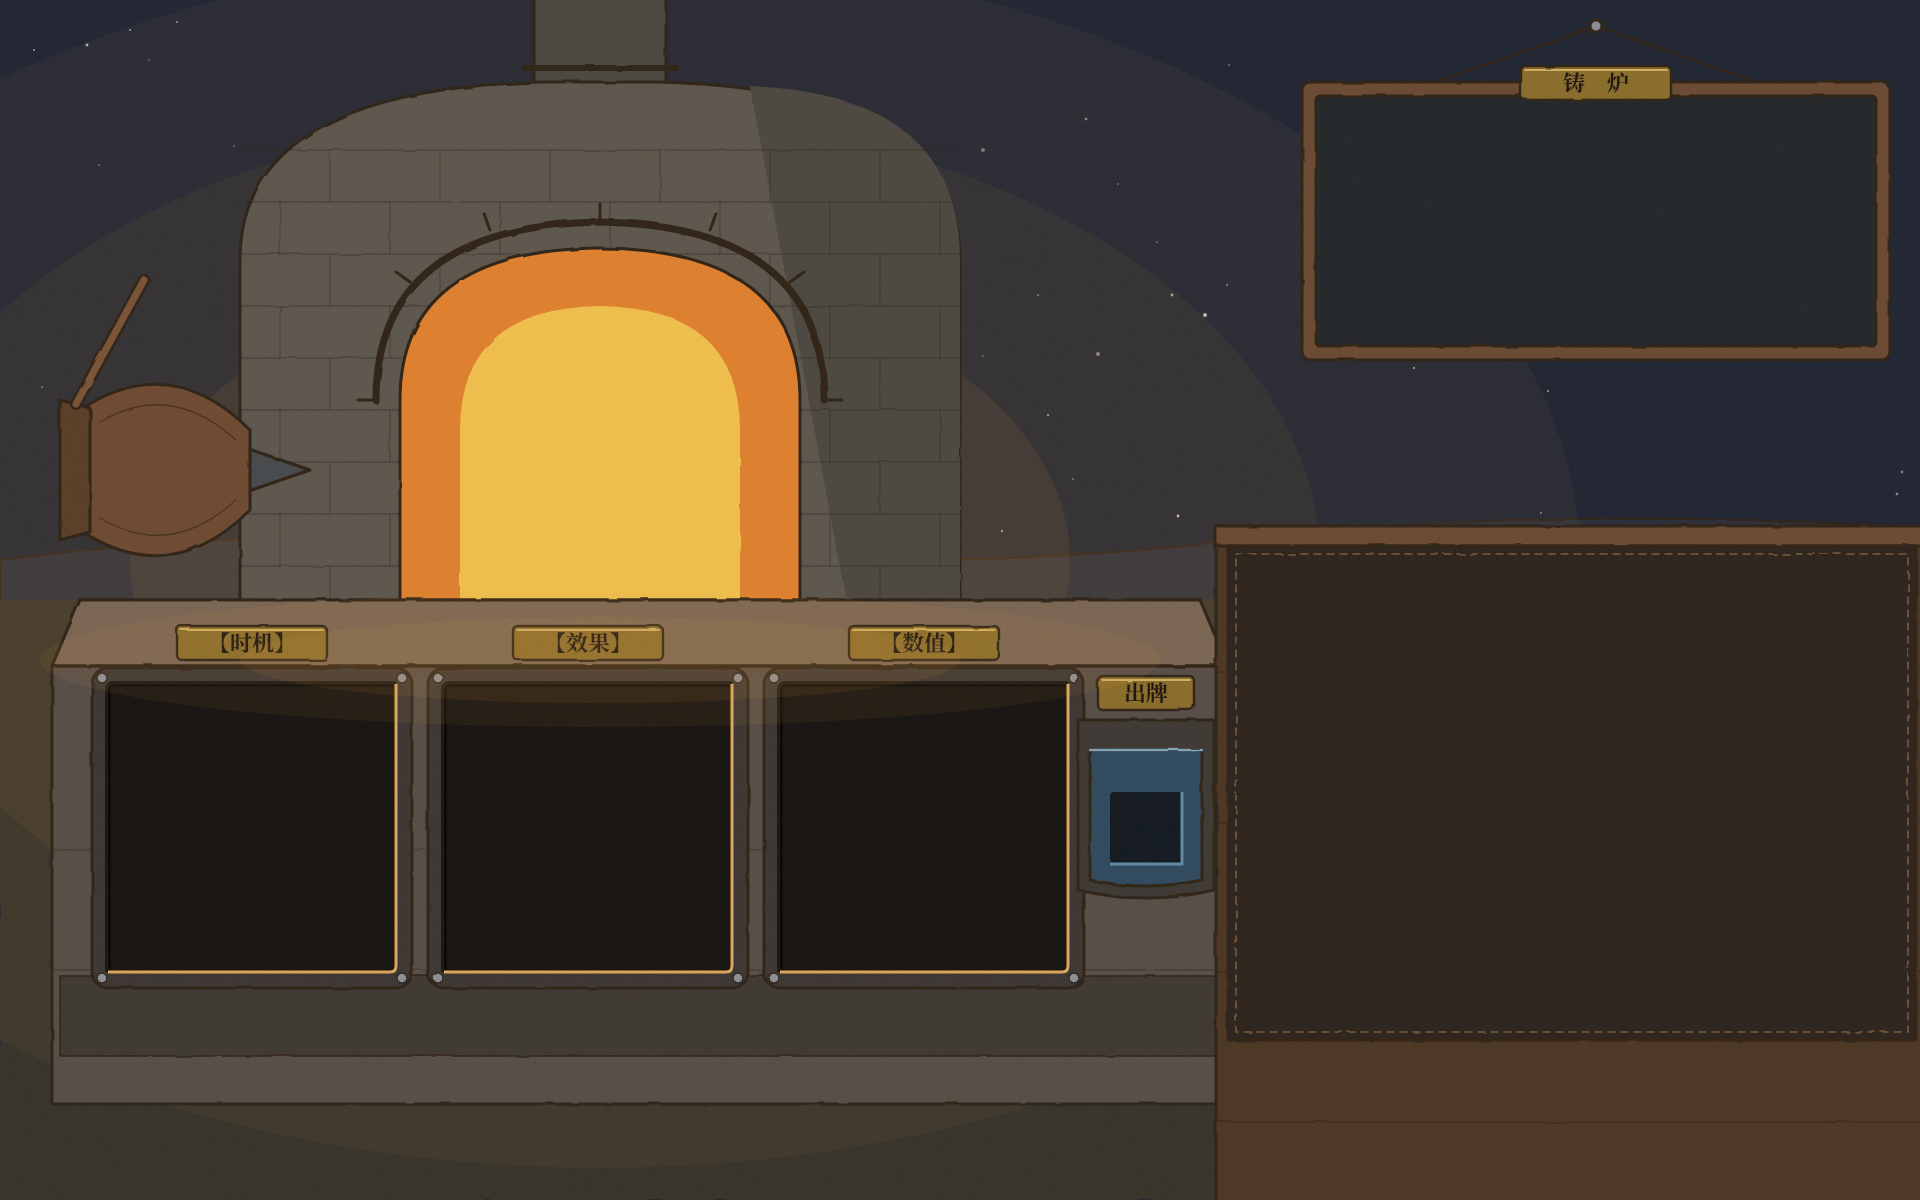
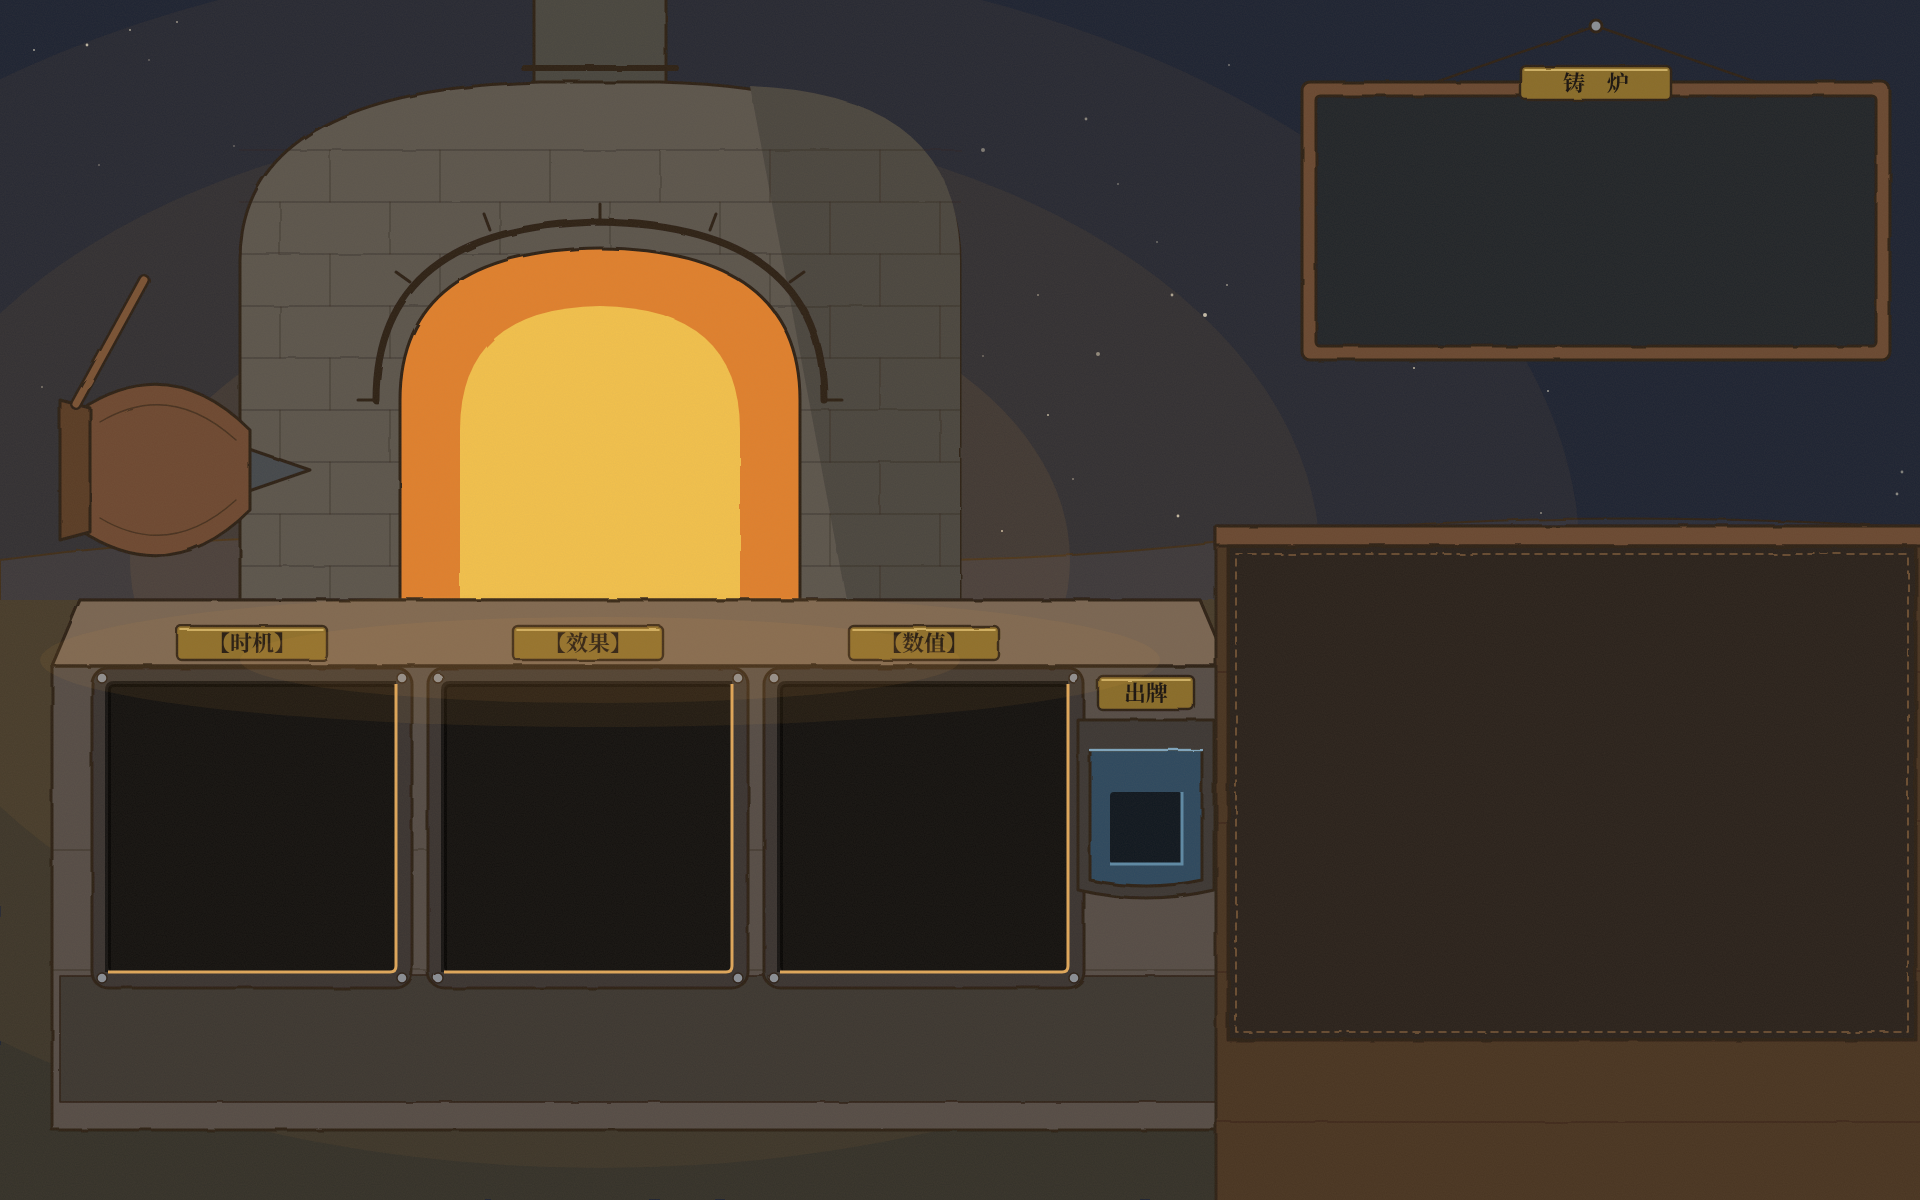
199 铸炉美术：石带加高，槽下小字 h 66 → 110，路标挪位
美术更新 bg_lit / bg_cold（石带 y 976–1102）与 layout.json
（captions.h 110，sign.pos (80,1196)）。效果槽四行小字不再越过石带；
报告 199 偏差 5 标为已解决。

Claude-Session: https://claude.ai/code/session_018nu316eEhzvyxZFyrEBn2i

Changed region(s): [[0.0312, 0.8942, 0.6562, 0.9558]]

diff --git a/docs/reports/199-forge-screen-art-landing.md b/docs/reports/199-forge-screen-art-landing.md
@@ -26,7 +26,7 @@
 - **标签**：【时机】【效果】【数值】【出牌】和标题「铸炉」都画在底图里 —— 删掉 `_label("【%s】")`、「出牌」、`_frame_title`；`_head` 不再是节点（`_head.text` 的两处状态改由底图 lit / cold 与把手三态表达；测试若断言 `_head.text`，改断言 `handle_state()`）。
 - **三槽**：三个 `InventoryView` 直接 `add_child` 到画面内容区，位置 = `layout.slots[i]`（时机 / 效果 / 数值顺序与 `ForgeTable.SLOTS` 一致）；`show_adjacency = false` 不变。
 - **出牌槽**：`layout.output`（72 × 72 → 一格）。
-- **槽下三行小字**：`_summaries[i]`（`UiTheme.rich_block`）放到 `layout.captions[i]`（288 × 66 → 240 × 55），深底亮字（内容区 tone dark 自动取亮字）。
+- **槽下三行小字**：`_summaries[i]`（`UiTheme.rich_block`）放到 `layout.captions[i]`（288 × 110 → 240 × 92；美术 10-19 把石带画高后由 66 改 110），深底亮字（内容区 tone dark 自动取亮字）。
 - **背包面板**：`_mount_bag` 的面板放到 `layout.bag`（672 × 480 → 560 × 400）左上对齐；9 × 6 格 + 一行说明正好装下。拖拽层、提示、`quick_target` 不变。
 - **三行字**：`_preview`、`_guess`、`_line` 竖排放进 `layout.text`（672 × 120 → 560 × 100），字号 13 / 12 / 13 不变。
 - **说明**：开头那段 `_wrapped(…, 12, DIM, 900)` 放进 `layout.slate`（560 × 250 → 467 × 208），宽随框、字号 12。
@@ -56,5 +56,5 @@
 2. **格子不缩放，在槽口里居中**：槽口 288 × s ≥ 240，`InventoryView` 照 60 像素一格放中间；1600 × 1000 下正好贴满。
 3. **说明石板字号 15**（不是 12）：按美术预览的字大小，12 号在那块板上太小；板面从石板外框往里缩 (28, 36)（底图像素）。
 4. **试算那一行空着时藏起来**，不占一行（铸完以后「铸好了」和「铸成」之间原来空一行）。
-5. **槽下小字会越过石带**：效果槽那三行里「做什么：施加 2 层流血（前缀「嗜血的」）」在 240 宽里折成两行，一共四行，底下一行压到铁砧正面（也是深底，看得清）。小字登记成占地（`_reserve_ground`），地上的东西不会压着它。要严丝合缝得改字（缩短前缀那半句）或把石带画高，先不动。
+5. ~~**槽下小字会越过石带**~~（已解决，10-19）：美术把石带画高到底图 y 976–1102、`captions.h` 66 → 110，效果槽折成的四行（实测 76 像素高 ≤ 92）都落在石带上；路标 `sign.pos` 同时改成 (80, 1196)，避开第一槽小字。截图 `screenshots/196/forge_*_v2.png`。
 6. 键盘焦点：把手先于路标加进树，焦点链就是这个顺序；没另加别的焦点逻辑。悬停提亮 1.12。
